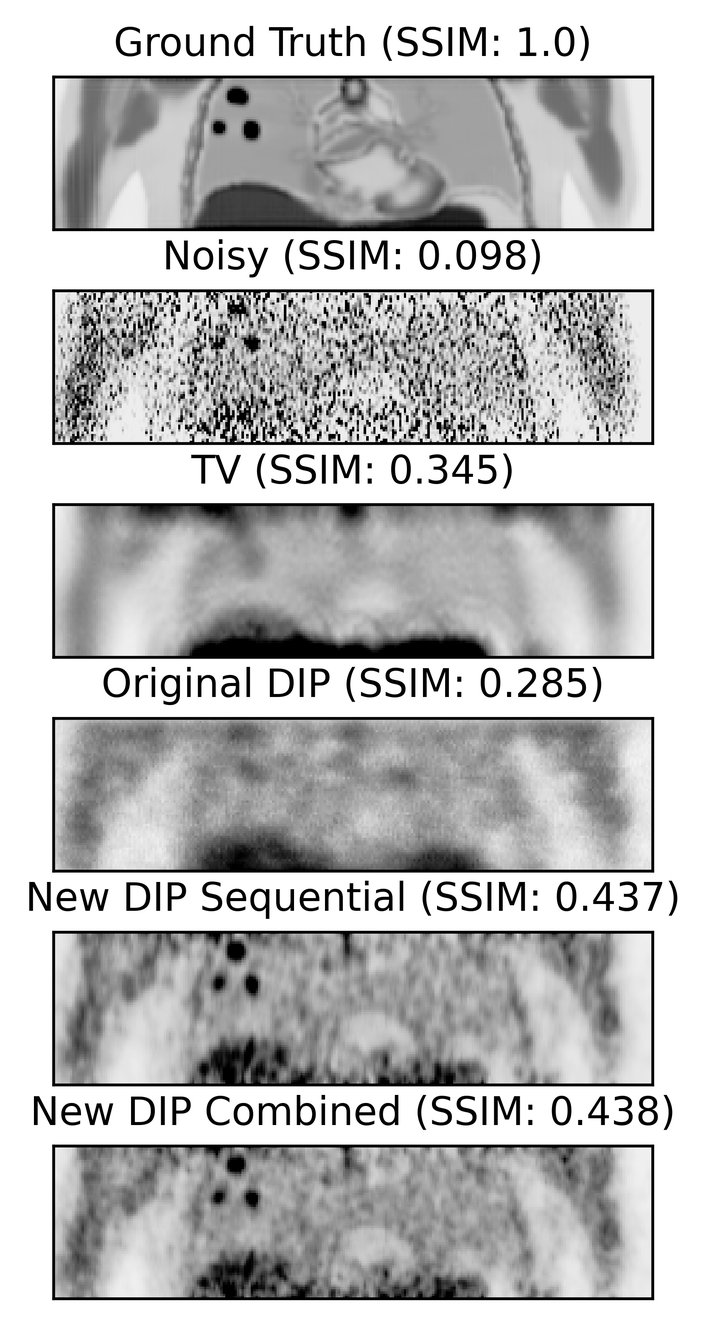
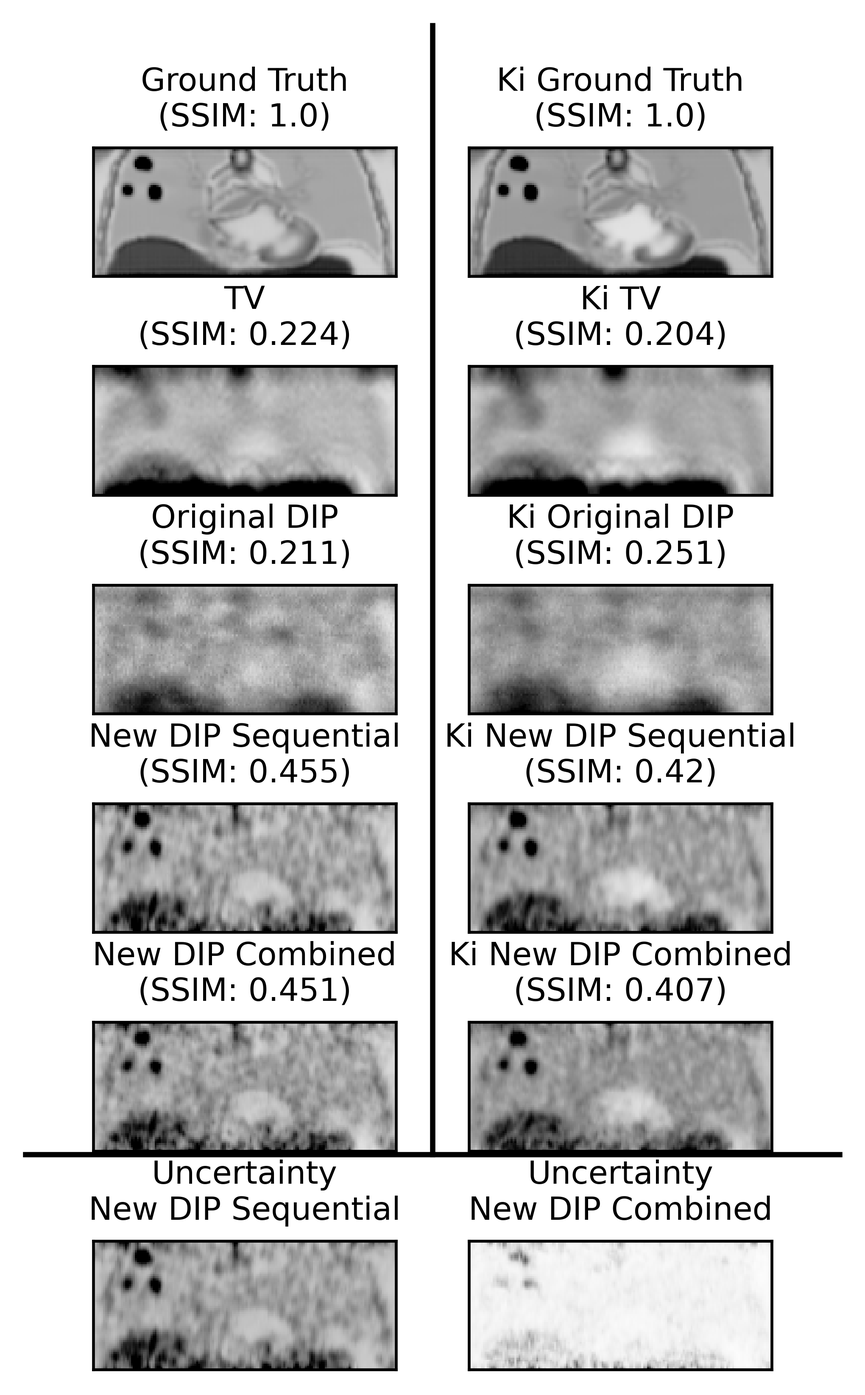
Updates from Overleaf

diff --git a/body.tex b/body.tex
@@ -1,61 +1,64 @@
 \section{Introduction} \label{sec:introduction}
-    \IEEEPARstart{M}{ost} \gls{ML} or \gls{NN} based methods, rely upon a workflow where a model is designed, trained, validated, and deployed~\cite{Krose2011AnNetworks}.% This is logical as the intention with \gls{NN} based methods is to treat them as a general function approximator~\cite{Krose2011AnNetworks}. This is where the function is determined by the relationship between the data used and the objective or loss function. 
-    However, in the domain of image denoising, the \gls{DIP} method has received attention due to its promising results, and the fact that training and inference are performed independently on each new image~\cite{Ulyanov2018DeepPrior}. The \gls{DIP} method could be considered to be a custom learnt bank of filters for each input. In order to prevent overfitting, the number of iterations used is imperative.% The authors of the original \gls{DIP} paper argue that the method could be considered to be used to solve many inverse problems~\cite{Ulyanov2018DeepPrior}.
+    \IEEEPARstart{M}{ost} \acrlong{ML} or \gls{NN} based methods, rely upon a workflow where a model is designed, trained, validated, and deployed~\cite{Krose2011AnNetworks}. %This is logical as the intention with \gls{NN} based methods is to treat them as a general function approximator~\cite{Krose2011AnNetworks}. This is where the function is determined by the relationship between the data used and the objective or loss function. 
+    However, in the domain of image denoising, the \gls{DIP} method has received attention as training and inference are performed independently on each new image~\cite{Ulyanov2018DeepPrior}. %The \gls{DIP} method could be considered to be a custom learnt bank of filters for each input. In order to prevent overfitting, the number of iterations used is imperative.% The authors of the original \gls{DIP} paper argue that the method could be considered to be used to solve many inverse problems~\cite{Ulyanov2018DeepPrior}.
     
-    For \gls{PET}, there have been a number of adaptations of \gls{DIP}, for instance;~\cite{Gong2019PETPrior} represented one of the first applications of \gls{DIP} to \gls{PET}. Here, a U-Net is used, with relatively high count/low motion brain scans~\cite{Weng2015U-Net:Segmentation}. In~\cite{Hashimoto20214DNetwork} \gls{DIP} is extended to \gls{4D} dynamic \gls{PET}. To do this, multiple output branches are grafted onto the \gls{NN}, one for each dynamic time point.~\cite{Hashimoto2019DynamicDatasets} uses the original or static \gls{PET} acquisition as input to the \gls{NN}, rather than noise.~\cite{Yang2022SimultaneousPrior} represents a more recent extension of \gls{DIP}, where multiple \glss{NN} are used simultaneously.
+    For \acrshort{PET}, there have been a number of adaptations of \gls{DIP}.~\cite{Gong2019PETPrior} used a U-Net with relatively high count/low motion brain scans~\cite{Weng2015U-Net:Segmentation}. In~\cite{Hashimoto20214DNetwork} \gls{DIP} is extended to \acrshort{4D} dynamic \acrshort{PET}. To do this, multiple output branches are grafted onto the \gls{NN}, one for each dynamic time point.~\cite{Hashimoto2019DynamicDatasets} uses the original or static \acrshort{PET} acquisition as input to the \gls{NN}, rather than noise.~\cite{Yang2022SimultaneousPrior} represents a more recent extension, where multiple \glss{NN} are used simultaneously.
     
-    This work seeks to extend or simplify previous work, in order to give a solution, which can be used to denoise \gls{4D} dynamic \gls{PET} data, for the application of kinetic modelling. Firstly, we reduced \gls{GPU} memory requirements. Because \gls{DIP} requires training at inference, the full amount of memory is needed every time the method is used. To aid in clinical adoption, a hard limit of \SI{8.0}{\giga\byte} \gls{GPU} memory was imposed. Secondly, a more robust stopping criteria is required.% The stopping criteria should be flexible so as to allow the method to correct a wider variety of inputs. 
-    One method would be, to look at a window of previous loss function values, and exit, when the gradient of this drops below a tolerance. To aid in achieving this, as well as to address weaknesses of the original \gls{DIP}, regularisation must be added, so as to stop the \gls{NN} fitting to noise. Previously, \gls{TV} has been incorporated in generic \gls{DIP} literature~\cite{Liu2019ImagePrior}, but has not been adopted in \gls{PET} \gls{DIP}. Finally, because the output from this method is to be used in a further model fitting, it may provide improved results to have a metric of the uncertainty in the denoised images. Most ways to incorporate Bayesian inference include, either increasing memory usage, or execution time. However, in~\cite{Gal2015DropoutLearning} it is proposed to use dropout to approximate Bayesian inference. Furthermore, this work uses \gls{PET} data with a \gls{FOV} of the lung and liver, whereas most previous work using a \gls{FOV} of the head.
+    This work seeks to extend or simplify previous work, in order to denoise \acrshort{4D} dynamic \acrshort{PET} data.
 
-% \vspace{-0.5cm}
-
-\section{Methods} \label{sec:methods}
-    \subsection{\gls{PET} Acquisition Simulation and Image Reconstruction} \label{sec:pet_acquisition_simulation_and_image_reconstruction}
-        A series of dynamic scans, following the clinical \gls{DWB}-\gls{PET} protocol, were generated using the \gls{XCAT} phantom~\cite{segars4DXCATPhantom2010}. Assigned patient-derived kinetic parameters to, $64$ tissues, three tumours of \SI{1.0}{\centi\meter} diameter in the left lung, and three tumours of \SI{2.5}{\centi\meter}, \SI{2.0}{\centi\meter} and \SI{1.0}{\centi\meter} diameter in the liver. An input function for \gls{18F-FDG}, taken from \cite{langsjoEffectsSubanestheticKetamine2004}, was used to simulate \glss{TAC} to create dynamic images.
-% KT some info here on timing
-
-        \gls{PET} acquisitions were simulated (and reconstructed) using \gls{STIR}~\cite{Thielemans2012} through \gls{SIRF}~\cite{Ovtchinnikov2017}. \gls{NTOF} sinogram data were simulated, using resolution modelling (using a \SI{6.0}{\centi\meter} \gls{FWHM} Gaussian filter). Randoms and scatter were not included. Poisson noise was added corresponding to a total number of counts of XXX in time frame XXX.
-% KT some info above
-
-        Finally, all data sets were reconstructed using $10$ iterations with $17$ subsets of \gls{OSEM}~\cite{Hudson1994}.
-
-    % \vspace{-0.5cm}
+\vspace{-0.4cm}
     
+\section{Methods}\label{sec:methods}
     \subsection{Network Design and Execution} \label{sec:network_design_and_execution}
-        The \gls{NN} used was a modified U-Net~\cite{Weng2015U-Net:Segmentation}, with seven down/upsampling stages. Each down/upsampling stage consisted of two convolutional layers (with two, four, eight, $16$, $32$, $64$, or $128$ channels, depending on depth). Followed by, either a split strided convolution and maxpooling layer (with the result concatenated), or a trilinear upsampling layer. Edge padding, group normalisation~\cite{Wu2018GroupNormalization}, MISH activation~\cite{Misra2020Mish:Function}, and spatial dropout, were used with every convolutional layer. Data was edge padded to the nearest power of two, and the input data had Gaussian noised summed to it. Both input and label data were standardised. \gls{MSE} and \gls{TV} were used as the loss function. AdamW~\cite{Loshchilov2017DecoupledRegularization} was used as optimiser. Training continued for all methods until the gradient of the loss function, over a window of previous results, reduced below a threshold. Parameters were tuned using a grid search.
+        Firstly, we reduced \acrshort{GPU} memory requirements. Because \gls{DIP} requires training at inference, the full amount of memory is needed every time the method is used. To aid in clinical adoption, a hard limit of \SI{8.0}{\giga\byte} \acrshort{GPU} memory was imposed. Secondly, a more robust stopping criteria is required. %The stopping criteria should be flexible so as to allow the method to correct a wider variety of inputs. 
+        % One method would be, to look at a window of previous loss function values, and exit, when the gradient of this drops below a tolerance.
+        To aid in achieving this, as well as to address weaknesses of the original \gls{DIP}, regularisation must be added, so as to stop the \gls{NN} fitting to noise, similar to~\cite{Liu2019ImagePrior}. Finally, because the output from this method is to be used in a further kinetic model fitting, it may provide improved results to have a metric of the uncertainty in the denoised images. we used dropout as in~\cite{Gal2015DropoutLearning} to approximate (more expensive) Bayesian inference. Furthermore, this work uses \acrshort{PET} data with a \gls{FOV} of the lung and liver, whereas most previous work uses a \gls{FOV} of the head.
+    
+        The \gls{NN} used was a modified U-Net~\cite{Weng2015U-Net:Segmentation}, with seven down/upsampling stages. Each down/upsampling stage consisted of two convolutional layers (with two, four, eight, $16$, $32$, $64$, or $128$ channels, depending on depth). Followed by, either a split strided convolution and maxpooling layer (with the result concatenated), or a trilinear upsampling layer. Edge padding, group normalisation~\cite{Wu2018GroupNormalization}, MISH activation~\cite{Misra2020Mish:Function}, and spatial dropout, were used with every convolutional layer. Data was edge padded to the nearest power of two, and the input data had Gaussian noised summed to it. Both input and label data were standardised. \acrlong{MSE} and \gls{TV} were used as the loss function. AdamW~\cite{Loshchilov2017DecoupledRegularization} was used as optimiser. Training continued for all methods until the gradient of the loss function, over a window of previous results, reduced below a threshold. Parameters were tuned using a grid search.
         
         Two training regimes were explored, one where each time point was treated independently, and another, where the model weights were saved and then independently updated on each time point (the mean of the new models weights was taken for the next iteration).
         
-    % \vspace{-0.5cm}
+    \vspace{-0.4cm}
+    
+    \subsection{\acrshort{PET} Acquisition Simulation and Image Reconstruction} \label{sec:pet_acquisition_simulation_and_image_reconstruction}
+        A series of dynamic scans, following the clinical \acrlong{DWB}-\acrshort{PET} protocol, were generated using the \acrshort{XCAT} phantom~\cite{segars4DXCATPhantom2010}. Patient-derived kinetic parameters were assigned to; $64$ tissues, three tumours of \SI{1.0}{\centi\meter} diameter in the left lung, and three tumours of \SI{2.5}{\centi\meter}, \SI{2.0}{\centi\meter} and \SI{1.0}{\centi\meter} diameter in the liver. An input function for \acrshort{18F-FDG}, taken from \cite{langsjoEffectsSubanestheticKetamine2004}, was used to simulate \glss{TAC} to create dynamic images.
+% KT some info here on timing
+
+        \acrshort{PET} acquisitions were simulated (and reconstructed) using \acrshort{STIR}~\cite{Thielemans2012} through \acrshort{SIRF}~\cite{Ovtchinnikov2017}. \acrlong{NTOF} sinogram data were simulated, using resolution modelling (using a \SI{6.0}{\centi\meter} \acrshort{FWHM} Gaussian filter). Randoms and scatter were not included. Poisson noise was added.% corresponding to a total number of counts of XXX in time frame XXX.
+% KT some info above
+
+        Finally, all data sets were reconstructed using $10$ iterations with $17$ subsets of \acrshort{OSEM}~\cite{Hudson1994}.
+
+    \vspace{-0.4cm}
     
     \subsection{Kinetic Modelling} \label{sec:kinetic_modelling}
-        Indirect Patlak estimation was used to generate $K_i$ and intercept images \cite{patlak1983GraphicalEvaluationBloodtoBrain}. Uncertainty estimates were used XXX.
+        Indirect Patlak estimation was used to generate $K_i$ and intercept images~\cite{patlak1983GraphicalEvaluationBloodtoBrain}. \glss{VOI} were defined for the three lesions and two background regions (lung and liver), and the mean values of $K_i$ and $V_d$ were calculated in each \gls{VOI}. The uncertainties of the parameters were estimated as follows: Normally distributed noise was added to the dynamic images, with standard deviation given by the \gls{DIP}-uncertainty, and Patlak analysis was performed. The procedure was repeated for $10$ noise realisations, and the standard deviation of the $K_i$ and $V_d$ parameters were calculated.
         
-    % \vspace{-0.5cm}
+    \vspace{-0.5cm}
     
     \subsection{Evaluation} \label{sec:evaluation}
         In addition to the denoising performed above%in~\Fref{sec:network_design_and_execution}
-        , data were also denoised using, \gls{TV}, and the \gls{DIP} method presented in~\cite{Gong2019PETPrior}.
+        , data were also denoised using \gls{TV}, and the \gls{DIP} method presented in~\cite{Gong2019PETPrior}.
         
-        Comparisons used included: A visual analysis, \gls{SSIM} to the ground truth~\cite{Wang2009MeanMeasures}, a \gls{TAC} through a lesion, a profile over a lesion, and \gls{SUV}\textsubscript{max} and \gls{SUV}\textsubscript{peak} (defined following \gls{EANM} guidelines~\cite{Boellaard2015FDG2.0}).
+        Comparisons used included: A visual analysis, \gls{SSIM} to the ground truth~\cite{Wang2009MeanMeasures}, and $K_i$ values.%a \gls{TAC} through a lesion, a profile over a lesion, and \acrshort{SUV}\textsubscript{max} and \acrshort{SUV}\textsubscript{peak} (defined following \acrshort{EANM} guidelines~\cite{Boellaard2015FDG2.0}).
 
-% \vspace{-0.5cm}
+\vspace{-0.5cm}
 
 \section{Results} \label{sec:results}
     \begin{figure}
-        % \vspace{-0.5cm}
+        \vspace{-0.5cm}
         
         \centering
     
         \includegraphics[width=1.0\linewidth]{figures/visual_analysis.png}    
         % \includegraphics[width=1.0\linewidth]{figures/visual_analysis.png}
         
-        % \vspace{-0.5cm}
+        \vspace{-0.5cm}
         
         \captionsetup{singlelinecheck=false, justification=centering}
         \caption{
         % \scriptsize
-        A visual analysis between the ground truth and denoised results (plus \gls{SSIM} to the ground truth), for; the ground truth, the original noisy data, and this data denoised using, \gls{TV}, the implementation of \gls{DIP} from~\cite{Gong2019PETPrior}, and our new implementation of \gls{DIP}, trained sequentially and combined (taken for the last time point of the lung \gls{FOV}). Colour map ranges are consistent for all images.}
+        First column contains, a visual analysis between the ground truth and denoised results (taken for the last time point, plus \gls{SSIM} to the ground truth), and the second column contains, the $K_i$ results (all voxels in a coronal view) of a Patlak reconstruction of all time points (plus \gls{SSIM} to the ground truth), for; the ground truth, and data denoised using, \gls{TV}, the implementation of \gls{DIP} from~\cite{Gong2019PETPrior}, and our new implementation of \gls{DIP}, trained sequentially and combined (taken for the lung \gls{FOV}). Last row contains, uncertainty volumes, for; the data denoised using our new implementation of \gls{DIP}, trained sequentially and combined (taken for the last time point of the lung \gls{FOV}). Colour map ranges are consistent for all images in each section.}
         
         \label{fig:visual_analysis}
         
@@ -67,86 +70,109 @@
         
         \centering
     
-        \includegraphics[width=1.0\linewidth]{figures/tac.png}    
+        \includegraphics[width=1.0\linewidth]{figures/ki.png}    
+        % \includegraphics[width=1.0\linewidth]{figures/ki.png}
+        
+        % \vspace{-0.5cm}
+        
+        \captionsetup{singlelinecheck=false, justification=centering}
+        \caption{
+        % \scriptsize
+        $K_i$ results (single voxel) of a Patlak reconstruction of all time points, plus uncertainty where applicable, for; the ground truth, and data denoised using, \gls{TV}, the implementation of \gls{DIP} from~\cite{Gong2019PETPrior}, and our new implementation of \gls{DIP}, trained sequentially and combined.}
+        
+        \label{fig:ki}
+        
+        \vspace{-0.5cm}
+    \end{figure}
+    
+    % \begin{figure}
+        % \vspace{-0.5cm}
+        
+    %     \centering
+    
+    %     \includegraphics[width=1.0\linewidth]{figures/tac.png}    
         % \includegraphics[width=1.0\linewidth]{figures/tac.png}
         
         % \vspace{-0.5cm}
         
-        \captionsetup{singlelinecheck=false, justification=centering}
-        \caption{
+    %     \captionsetup{singlelinecheck=false, justification=centering}
+    %     \caption{
         % \scriptsize
-        A \gls{TAC} through a lesion, fit as a third order polynomial regression, with weighting using uncertainty (where available), for; the ground truth, the original noisy data, and this data denoised using, \gls{TV}, the implementation of \gls{DIP} from~\cite{Gong2019PETPrior}, and our new implementation of \gls{DIP}, trained sequentially and combined, both with and without uncertainty (taken for the lung \gls{FOV}).}
+    %     A \gls{TAC} through a lesion, fit as a third order polynomial regression, with weighting using uncertainty (where available), for; the ground truth, the original noisy data, and this data denoised using, \gls{TV}, the implementation of \gls{DIP} from~\cite{Gong2019PETPrior}, and our new implementation of \gls{DIP}, trained sequentially and combined, both with and without uncertainty (taken for the lung \gls{FOV}).}
         
-        \label{fig:tac}
+    %     \label{fig:tac}
         
         % \vspace{-0.5cm}
-    \end{figure}
+    % \end{figure}
     
-        \begin{figure}
+    % \begin{figure}
         % \vspace{-0.5cm}
         
-        \centering
+    %     \centering
     
-        \includegraphics[width=1.0\linewidth]{figures/profile.png}    
+    %     \includegraphics[width=1.0\linewidth]{figures/profile.png}    
         % \includegraphics[width=1.0\linewidth]{figures/profile.png}
         
         % \vspace{-0.5cm}
         
-        \captionsetup{singlelinecheck=false, justification=centering}
-        \caption{
+    %     \captionsetup{singlelinecheck=false, justification=centering}
+    %     \caption{
         % \scriptsize
-        A profile through a lesion, in the \gls{SI} direction, for; the ground truth, the original noisy data, and this data denoised using, \gls{TV}, the implementation of \gls{DIP} from~\cite{Gong2019PETPrior}, and our new implementation of \gls{DIP}, trained sequentially and combined (taken for the last time point of the lung \gls{FOV}).}
+    %     A profile through a lesion, in the \gls{SI} direction, for; the ground truth, the original noisy data, and this data denoised using, \gls{TV}, the implementation of \gls{DIP} from~\cite{Gong2019PETPrior}, and our new implementation of \gls{DIP}, trained sequentially and combined (taken for the last time point of the lung \gls{FOV}).}
         
-        \label{fig:profile}
+    %     \label{fig:profile}
         
         % \vspace{-0.5cm}
-    \end{figure}
+    % \end{figure}
     
-    \begin{table}
+    % \begin{table}
         % \vspace{-0.5cm}
         
-        \centering
+    %     \centering
         
-        \captionsetup{singlelinecheck=false, justification=centering}
-        \caption{
+    %     \captionsetup{singlelinecheck=false, justification=centering}
+    %     \caption{
         % \tiny
-        Comparison of \acrshort{SUV}\textsubscript{max} and \acrshort{SUV}\textsubscript{peak}, for; the ground truth, the original noisy data, and this data denoised using, \gls{TV}, the implementation of \gls{DIP} from~\cite{Gong2019PETPrior}, and our new implementation of \gls{DIP}, trained sequentially and combined (taken for the last time point of the lung \gls{FOV}).}
+    %     Comparison of \acrshort{SUV}\textsubscript{max} and \acrshort{SUV}\textsubscript{peak}, for; the ground truth, the original noisy data, and this data denoised using, \gls{TV}, the implementation of \gls{DIP} from~\cite{Gong2019PETPrior}, and our new implementation of \gls{DIP}, trained sequentially and combined (taken for the last time point of the lung \gls{FOV}).}
         
         % \vspace{-0.5cm}
         
-        \resizebox*{1.0\linewidth}{!}
+    %     \resizebox*{1.0\linewidth}{!}
         % \resizebox*{1.0\linewidth}{!}
-        {
-            \begin{tabular}{||c|cc||}
-                \hline
-                \textbf{\acrshort{SUV}}             & \textbf{Max}  & \textbf{Peak} \\
-                \hline
-                \textbf{Ground Truth}               & $12.3$        & $9.53$ \\
-                \hline
-                \textbf{Noisy}                      & $21.5$        & $5.99$ \\
-                \hline
-                \textbf{\gls{TV}}                   & $3.28$        & $6.24$ \\
-                \textbf{Original \gls{DIP}}         & $3.90$        & $6.93$ \\
-                \hline
-                \textbf{New \gls{DIP} Sequential}   & $9.19$        & $8.02$ \\
-                \textbf{New \gls{DIP} Combined}     & $9.27$        & $8.21$ \\
-                \hline
-            \end{tabular}
-        }
-        \label{tab:suv}
+    %     {
+    %         \begin{tabular}{||c|cc||}
+    %             \hline
+    %             \textbf{\acrshort{SUV}}             & \textbf{Max}  & \textbf{Peak} \\
+    %             \hline
+    %             \textbf{Ground Truth}               & $12.3$        & $9.53$ \\
+    %             \hline
+    %             \textbf{Noisy}                      & $21.5$        & $5.99$ \\
+    %             \hline
+    %             \textbf{\gls{TV}}                   & $3.28$        & $6.24$ \\
+    %             \textbf{Original \gls{DIP}}         & $3.90$        & $6.93$ \\
+    %             \hline
+    %             \textbf{New \gls{DIP} Sequential}   & $9.19$        & $8.02$ \\
+    %             \textbf{New \gls{DIP} Combined}     & $9.27$        & $8.21$ \\
+    %             \hline
+    %         \end{tabular}
+    %     }
+    %     \label{tab:suv}
         
         % \vspace{-0.5cm}
-    \end{table}
+    % \end{table}
     
-    A visual comparison of the reconstructed images (see~\Fref{fig:visual_analysis}), shows that both of the new \gls{DIP} methods perform comparably, if not for a slight reduction in noise in the combined case. Whereas, the \gls{TV} and original \gls{DIP} implementations appear to have struggled with, over smoothing, reducing the contrast of the lesions, and introducing some edge artefacts.
+    A visual comparison of the reconstructed images (see~\Fref{fig:visual_analysis}), shows that both of the new \gls{DIP} methods perform comparably, if not for a slight reduction in noise in the combined case. Whereas, the \gls{TV} and original \gls{DIP} implementations appear to have struggled with over smoothing, reducing the contrast of the lesions, and introducing some edge artefacts. The uncertainty of the combined method can be seen reduced compared to the sequential method.
     
-    The overall shape of the \gls{TAC} (see~\Fref{fig:tac}) for the new \gls{DIP} combined method appears, most similar to the ground truth, however, with a slight reduction in quantification. The sequential method is less accurate, but still more so than both the original \gls{DIP} and \gls{TV} methods. There is significant variation in the noise \gls{TAC}, somewhat masked by the regression, however, its shape is still least like the ground truth. Adding uncertainty appears to have improved the \gls{TAC} of the new \gls{DIP} sequential method, however, the uncertainty of the combined method is less, and as such, the inclusion of uncertainty has not affected results significantly.
+    A comparison of $K_i$ values across multiple lesions (see~\Fref{fig:ki}), shows that the new \gls{DIP} combined method most often estimates the greatest magnitude of $K_i$ value, which is usually closest to the ground truth. The new \gls{DIP} sequential is slightly less accurate (also with greater uncertainty), however, is more accurate than the \gls{TV} and original \gls{DIP} implementations (which consistently significantly underestimate $K_i$).
     
-    The peak of the profile (see~\Fref{fig:profile}) for both new \gls{DIP} methods is comparable, and greater than both the original \gls{DIP} and \gls{TV} methods. The peak of the noise profile is greater than all other methods, including the ground truth, however, this is not necessarily beneficial, as can be seen by the rest of the profile not closely following the ground truth (it undulates unpredictably). The profile for both new \gls{DIP} methods are significantly smoother, and more closely follow the ground truth.
+    % The overall shape of the \gls{TAC} (see~\Fref{fig:tac}) for the new \gls{DIP} combined method appears, most similar to the ground truth, however, with a slight reduction in quantification. The sequential method is less accurate, but still more so than both the original \gls{DIP} and \gls{TV} methods. There is significant variation in the noise \gls{TAC}, somewhat masked by the regression, however, its shape is still least like the ground truth. Adding uncertainty appears to have improved the \gls{TAC} of the new \gls{DIP} sequential method, however, the uncertainty of the combined method is less, and as such, the inclusion of uncertainty has not affected results significantly.
+    
+    % The peak of the profile (see~\Fref{fig:profile}) for both new \gls{DIP} methods is comparable, and greater than both the original \gls{DIP} and \gls{TV} methods. The peak of the noise profile is greater than all other methods, including the ground truth, however, this is not necessarily beneficial, as can be seen by the rest of the profile not closely following the ground truth (it undulates unpredictably). The profile for both new \gls{DIP} methods are significantly smoother, and more closely follow the ground truth.
      
-    \acrshort{SUV} (and \acrshort{SSIM}) results confirm the above (see~\Fref{tab:suv}).
+    % \acrshort{SUV} (and \acrshort{SSIM}) results confirm the above (see~\Fref{tab:suv}).
+    \acrshort{SSIM} results confirm the above.
 
-% \vspace{-0.5cm}
+\vspace{-0.4cm}
 
 \section{Discussion and Conclusions} \label{sec:discussion_and_conclusions}
     % XXXSome discussion of results here.
@@ -155,4 +181,4 @@
     
     The uncertainty estimates produced by the \gls{NN} need to be validated by comparison with results obtained from repeated noise realisations.
     
-    % In the future, research will focus on the application of the method to domains other than dynamic \gls{PET}, where \gls{4D} data exists, such as \gls{MC}.
+    % In the future, research will focus on the application of the method to domains other than dynamic \gls{PET}, where \acrshort{4D} data exists, such as \acrlong{MC}.

diff --git a/main.tex b/main.tex
@@ -2,7 +2,7 @@
 \IEEEoverridecommandlockouts
 
 \usepackage[activate={true, nocompatibility}, final, tracking=true, kerning=true, spacing=true, factor=1100, stretch=10, shrink=10]{microtype}
-% \linespread{0.9}
+\linespread{0.92}
 
 % \makeatletter
 % \def\mycopyrightnotice{
@@ -64,7 +64,7 @@
 \begin{document}
 
 \title{
-    % \vspace{-0.75cm}
+    \vspace{-0.75cm}
 
     Pseudo-Bayesian DIP Denoising as a Preprocessing Step for Kinetic Modelling in Dynamic PET
 }
@@ -73,7 +73,7 @@
 \pagenumbering{gobble}
 
 \author{
-    % \vspace{-0.5cm}
+    \vspace{-0.4cm}
     
     \IEEEauthorblockN{
         Alexander~C.~Whitehead~\IEEEauthorrefmark{1}~\IEEEauthorrefmark{2},
@@ -100,7 +100,7 @@
     \IEEEauthorblockA{
         \IEEEauthorrefmark{4}
         \textit{Molecular Imaging and Computed Tomography Engineering, GE Healthcare, USA}
-        % \vspace{-0.75cm}
+        \vspace{-0.75cm}
     }
 
     \thanks{This research was supported by GE Healthcare, the NIHR UCLH Biomedical Research Centre and the UCL EPSRC Centre for Doctoral Training in Intelligent, Integrated Imaging in Healthcare (i4health) grant (EP/L016478/1).}
@@ -113,16 +113,17 @@
 \IEEEpeerreviewmaketitle
 
 \begin{abstract}
-    Noise (among other artefacts) could be considered to be the bane of PET. Often, it causes what could otherwise be a more simple problem to explode in complexity. Many methods have been proposed to alleviate the worst annoyances of noise, however, not many take into account the temporal nature of dynamically acquired PET. Here, we propose an adaption of a method, which has seen increasing attention in more traditional imaging denoising circles. Deep Image Prior exploits the initialisation of a carefully designed neural network, so as to treat it as a bank of custom filters, which are to be trained and used afresh on each new piece of data, independently. Deep Image Prior has seen adaptation to PET previously (including dynamic PET), however, many of these adaptations do not take into account the large memory requirements of the method. Additionally, most previous work does not address the main weakness of the Deep Image Prior, its stopping criteria. Here, we propose a method which is both memory efficient, and uses the gradient of the loss function as a stopping criteria. Additionally, we introduce such improvements as, to include a smoothing regularisation, incorporate a Bayesian approximation (using dropout), and prototype a training scheme by which the model is fit on all data simultaneously. To evaluate this, dynamic XCAT simulations have been produced, with a field of view of the lung and liver, containing hot lesions. The results of the new methods (along with total variation and the old Deep Image Prior) have been compared by; a visual analysis, SSIM, a comparison of time activity curve and profile, and SUV. Results indicate that the new methods potentially outperform the old methods, without increasing computation time, while reducing system requirements.
+    Noise (among other artefacts) could be considered to be the bane of PET. %Often, it causes what could otherwise be a more simple problem to explode in complexity. 
+    Many methods have been proposed to alleviate the worst annoyances of noise, however, not many take into account the temporal nature of dynamically acquired PET. Here, we propose an adaption of a method, which has seen increasing attention in more traditional imaging denoising circles. Deep Image Prior exploits the initialisation of a carefully designed neural network, so as to treat it as a bank of custom filters, which are to be trained and used afresh on each new image, independently. Deep Image Prior has seen adaptation to PET previously (including dynamic PET), however, many of these adaptations do not take into account the large memory requirements of the method. Additionally, most previous work does not address the main weakness of the Deep Image Prior, its stopping criteria. Here, we propose a method which is both memory efficient, and includes a smoothing regularisation. In addition, we provide uncertainty estimates by incorporating a Bayesian approximation (using dropout), and prototype a training scheme by which the model is fit on all data simultaneously. The denoised images are then used as input for kinetic modelling. To evaluate the method, dynamic XCAT simulations have been produced, with a field of view of the lung and liver. The results of the new methods (along with total variation and the old Deep Image Prior) have been compared by; a visual analysis, SSIM, and $K_i$ values. Results indicate that the new methods potentially outperform the old methods, without increasing computation time, while reducing system requirements.
 \end{abstract}
 
-% \vspace{-0.5cm}
+\vspace{-0.5cm}
 
 \input{body}
 
 \AtNextBibliography{
-    % \scriptsize
-    \small
+    \scriptsize
+    % \small
 }
 \printbibliography
 

diff --git a/glossary.tex b/glossary.tex
@@ -142,6 +142,7 @@
 \newacronym{TOF}{TOF}{Time-of-Flight}
 \newacronym{TPS}{TPS}{Thin Plate Spline}
 \newacronym{TV}{TV}{Total Variation}
+\newacronym[longs={Volumes of Interest}, shorts={VOIs}]{VOI}{VOI}{Volume of Interest}
 \newacronym{XCAT}{XCAT}{$4$-Dimensional Extended Cardiac Torso}
 
 % \glsunset{18F-FDG}
